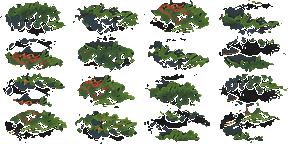
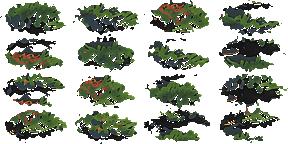
Mesh conifers fill out: ten tiers of sprays in three rings, each a quarter wider and darker toward the trunk, cut from the sprite with its dark interior kept (only its black outline cut), so the crown has the painted tiers' mass and depth. Still off by default (#10647)

diff --git a/src/WorldRpg.Rulesets.Daggerfall/World/DaggerfallTreeMesh.cs b/src/WorldRpg.Rulesets.Daggerfall/World/DaggerfallTreeMesh.cs
@@ -14,6 +14,8 @@ namespace WorldRpg.Rulesets.Daggerfall.World;
 internal static class DaggerfallTreeMesh
 {
     private const int TrunkSides = 6, LimbSides = 4;
+    /// <summary>How dark a conifer's spray is at the trunk, rising to its own colour at the tip.</summary>
+    private const float RootShade = .55f;
     /// <summary>How far the trunk's foot sinks into the ground, as a share of the tree's height, so slopes never show it.</summary>
     private const float Sink = .03f;
 
@@ -59,28 +61,29 @@ internal static class DaggerfallTreeMesh
         // Each tier is a ring of sprays from the trunk, drooping outward, each a strip of the sprite's own tier with its
         // branch's root at the trunk. Each is rolled from lying flat toward standing, so from the side some face the eye
         // and some lie edge-on, and the crown keeps the sprite's stacked, gapped tiers.
-        int tiers = 8;
+        int tiers = 10;
         for (int w = 0; w < tiers; w++)
         {
             float y = crownBase + ((top - crownBase) * (w + .35f) / tiers);
             float share = 1 - ((y - crownBase) / (top - crownBase));
             float reach = radius * (.25f + (.85f * share));
-            // An outer ring and, half as many, an inner one, shorter and higher, filling the tier toward the trunk.
-            int outer = 13 + rng.Next(4), count = outer + (outer / 2);
+            // An outer ring, then a middle and an inner one, shorter, filling the tier toward the trunk.
+            int outer = 14 + rng.Next(4), middle = outer * 3 / 5, inner = outer * 2 / 5, count = outer + middle + inner;
             float turn = (float)(rng.NextDouble() * MathF.Tau);
             for (int c = 0; c < count; c++)
             {
-                bool inner = c >= outer;
-                float a = turn + (MathF.Tau * (inner ? c - outer + .5f : c) / (inner ? outer / 2 : outer)) + (float)((rng.NextDouble() - .5) * .4);
+                int ring = c < outer ? 0 : c < outer + middle ? 1 : 2;
+                int index = ring == 0 ? c : ring == 1 ? c - outer : c - outer - middle, around = ring == 0 ? outer : ring == 1 ? middle : inner;
+                float a = turn + (MathF.Tau * (index + (ring * .33f)) / around) + (float)((rng.NextDouble() - .5) * .4);
                 // Nearly level, as the sprite's tiers stand, dipping a little toward the tip.
                 Vector3 radial = Vector3.Normalize(new Vector3(MathF.Cos(a), -.06f - (float)(rng.NextDouble() * .14), MathF.Sin(a)));
                 Vector3 tangent = new(-MathF.Sin(a), 0, MathF.Cos(a));
                 float roll = (10 + (float)(rng.NextDouble() * 30)) * MathF.PI / 180;
                 Vector3 up = Vector3.Normalize((tangent * MathF.Cos(roll)) + (Vector3.UnitY * MathF.Sin(roll)));
                 up = Vector3.Normalize(up - (radial * Vector3.Dot(up, radial)));
-                float length = reach * (inner ? .6f : 1) * (float)(.95 + (rng.NextDouble() * .2));
+                float length = reach * (ring == 0 ? 1 : ring == 1 ? .72f : .45f) * (float)(.95 + (rng.NextDouble() * .2));
                 sprays.Add((new Vector3(0, y + (float)((rng.NextDouble() - .5) * .2 * (top - crownBase) / tiers), 0) + (radial * trunk), radial, up,
-                    length, Math.Max(card, length / 2)));
+                    length, Math.Max(card, length / 2) * 1.25f));
             }
         }
 
@@ -259,13 +262,14 @@ internal static class DaggerfallTreeMesh
         float tone = (float)(.88 + (rng.NextDouble() * .12));
         Vector3 half = up * width / 2, tip = root + (out_ * length);
         uint first = (uint)positions.Count;
-        foreach ((Vector3 corner, Vector2 uv, float sway) in new[] { (root - half, new Vector2(u0, v1), .1f), (tip - half, new Vector2(u1, v1), .9f),
-                     (tip + half, new Vector2(u1, v0), .9f), (root + half, new Vector2(u0, v0), .1f) })
+        // Darker toward the trunk, where the tier above shades it, so the crown has depth as the painted one does.
+        foreach ((Vector3 corner, Vector2 uv, float sway, float light) in new[] { (root - half, new Vector2(u0, v1), .1f, RootShade),
+                     (tip - half, new Vector2(u1, v1), .9f, 1f), (tip + half, new Vector2(u1, v0), .9f, 1f), (root + half, new Vector2(u0, v0), .1f, RootShade) })
         {
             positions.Add(corner);
             normals.Add(shade);
             uvs.Add(uv);
-            colours.Add(new Color(tone, tone, tone, sway));
+            colours.Add(new Color(tone * light, tone * light, tone * light, sway));
         }
 
         indices.AddRange([first, first + 1, first + 2, first, first + 2, first + 3, first, first + 2, first + 1, first, first + 3, first + 2]);

diff --git a/authoring/tools/trees/trees.py b/authoring/tools/trees/trees.py
@@ -67,13 +67,15 @@ def piece(m):
 
 def leaves(rgba, m, form):
     """CELLS x CELLS pieces of the crown, each a window cut to a ragged oval edge. The windows richest in foliage (green
-    or blossom, lit) are taken, and the crown's near-black outlines are cut away, so the gaps between leaves show through.
+    or blossom, lit) are taken.
     A broadleaf's pieces are square clumps from anywhere in the crown. A conifer's are sprays: strips twice as wide as
     they are tall, running from the trunk out along one side of a tier, turned so the trunk's end is always on the left."""
     crown = rgba[m["top"]:m["crown"] + 1].copy()
     rgb = crown[..., :3] / 255
     light = rgb @ [.2126, .7152, .0722]
-    crown[..., 3] = np.where(light < .09, 0, crown[..., 3])
+    # The near-black outlines are cut, so a broadleaf's clumps show gaps; a conifer keeps all but the blackest, its dark
+    # between and under the tiers that gives it depth.
+    crown[..., 3] = np.where(light < (.012 if form == "conifer" else .09), 0, crown[..., 3])
     solid = crown[..., 3] > SOLID
     foliage = solid & (light > .16) & ((rgb[..., 1] >= rgb[..., 0] * .95) | (rgb[..., 0] > rgb[..., 2] * 1.6) & (light > .3))
     width, height = spray(m) if form == "conifer" else (piece(m), piece(m))
